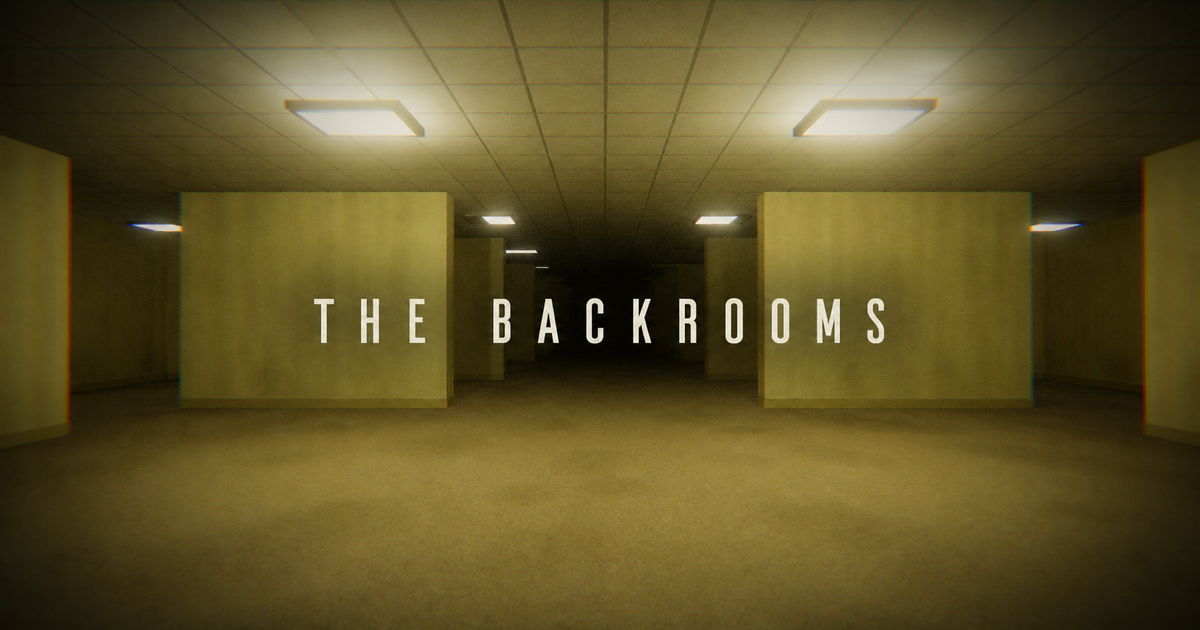
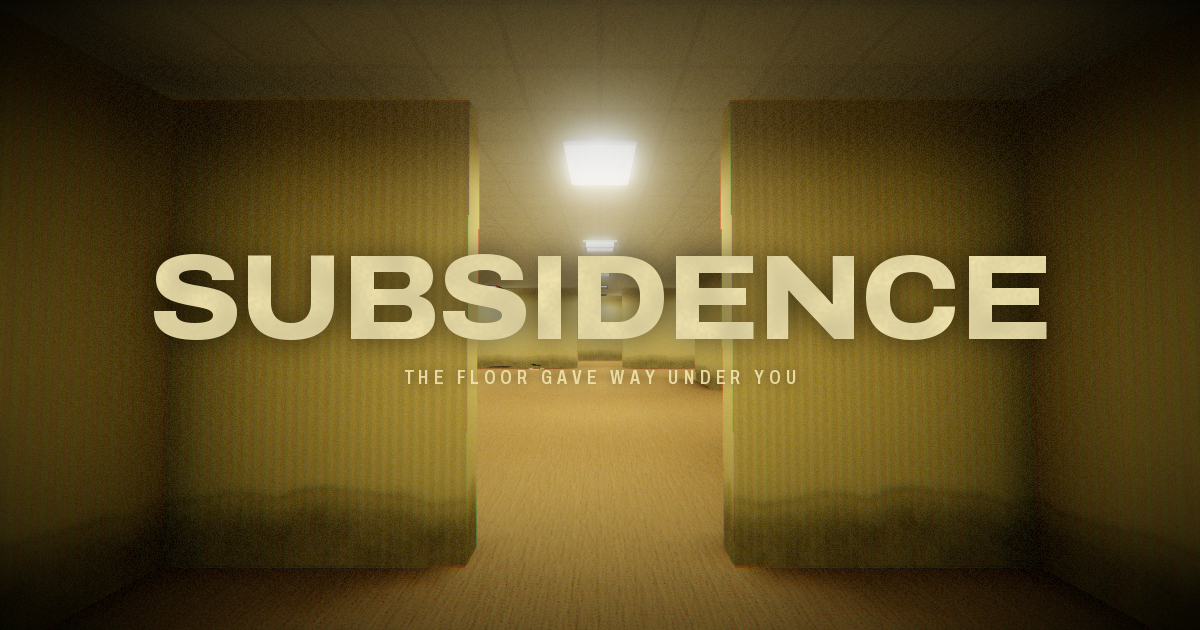
📝 docs: show the current Subsidence cover in the README

diff --git a/README.md b/README.md
@@ -1,5 +1,5 @@
 <p align="center">
-  <img src="assets/cover.png" alt="Subsidence — an endless yellow maze" width="640" />
+  <img src="assets/cover.png" alt="Subsidence title over an endless yellow office labyrinth" width="640" />
 </p>
 
 <h1 align="center">SUBSIDENCE</h1>
